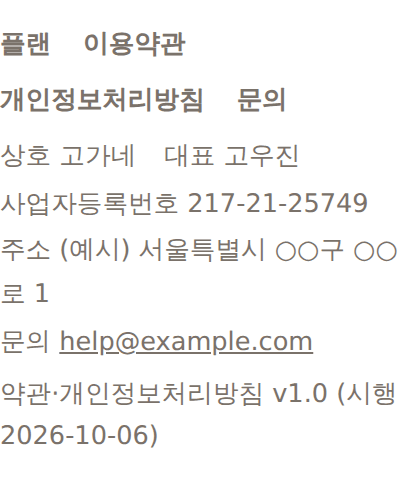
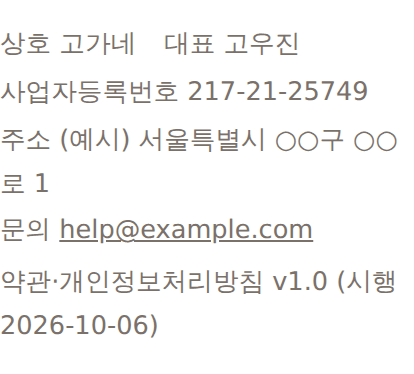
L1: 콘솔 사이드바 약관·개인정보 링크 원형 유지 + 사업자 정보만 덧붙임(링크 줄 중복 0) · 규칙 없는 클래스 제거
Claude-Session: https://claude.ai/code/session_01PxGVkp5f6YphwkqMwzi5ZE

diff --git a/src/seller_console/templates/_base.html b/src/seller_console/templates/_base.html
@@ -266,10 +266,14 @@
       <a class="d-block text-decoration-none mb-1" href="/seller/admin/image-translate-bench"><i class="bi bi-translate"></i> 이미지 번역 채점</a>
       <a class="d-block text-decoration-none mb-1" href="/seller/admin/image-storage"><i class="bi bi-hdd-stack"></i> 이미지 저장소 진단</a>
       {% endif %}
+      <a href="/privacy" class="text-decoration-none text-secondary">개인정보처리방침</a>
+      <span class="mx-1">·</span>
+      <a href="/terms" class="text-decoration-none text-secondary">이용약관</a>
     </div>
-    {# L1: 공통 푸터(사업자 정보·약관·개인정보) — 콘솔은 사이드바 맨 아래. 사이드바는 제 스크롤(100vh)이라 본문 높이를
-       늘리지 않는다(「한 화면」 계약 v40s6h·s6i 유지). 모바일은 드로어 안. 단독 blueprint 앱(테스트)에선 조각이 없어도 렌더. #}
-    <div class="console-site-foot mt-2 pt-2 border-top">{% set foot_dark = False %}{% include "public/_site_footer.html" ignore missing %}</div>
+    {# L1: 공통 푸터의 사업자 정보 — 콘솔은 사이드바 맨 아래(약관·개인정보 링크는 바로 위 줄이 이미 있어 조각의 링크 줄은 끔).
+       사이드바는 제 스크롤(100vh)이라 본문 높이를 늘리지 않는다(「한 화면」 계약 v40s6h·s6i 유지). 모바일은 드로어 안.
+       단독 blueprint 앱(테스트)에선 조각이 없어도 렌더. #}
+    <div class="mt-2 pt-2 border-top">{% set foot_dark = False %}{% set foot_links = False %}{% include "public/_site_footer.html" ignore missing %}</div>
   </nav>
 
   <div class="console-main">

diff --git a/src/public_site/templates/public/_site_footer.html b/src/public_site/templates/public/_site_footer.html
@@ -1,9 +1,9 @@
 {# L1 공통 푸터 — 랜딩·공개 페이지·셀러 콘솔. env가 빈 칸은 숨긴다(플레이스홀더·env 이름 노출 0). foot_dark=True면 먹 배경용. #}
 {% set _si = site_info or {} %}
 <div class="site-foot{{ ' is-dark' if foot_dark else '' }}" data-role="site-footer">
-  <nav class="site-foot-links" aria-label="서비스 정보">
+  {% if foot_links is not defined or foot_links %}<nav class="site-foot-links" aria-label="서비스 정보">
     <a href="/pricing">플랜</a><a href="/terms">이용약관</a><a href="/privacy"><strong>개인정보처리방침</strong></a><a href="/contact">문의</a>
-  </nav>
+  </nav>{% endif %}
   <p class="site-foot-biz">
     <span>상호 {{ _si.name }}</span><span>대표 {{ _si.ceo }}</span><span data-role="biz-reg-no">사업자등록번호 {{ _si.reg_no }}</span>
     {% if _si.mailorder_no %}<span data-role="biz-mailorder">통신판매업신고번호 {{ _si.mailorder_no }}</span>{% endif %}
